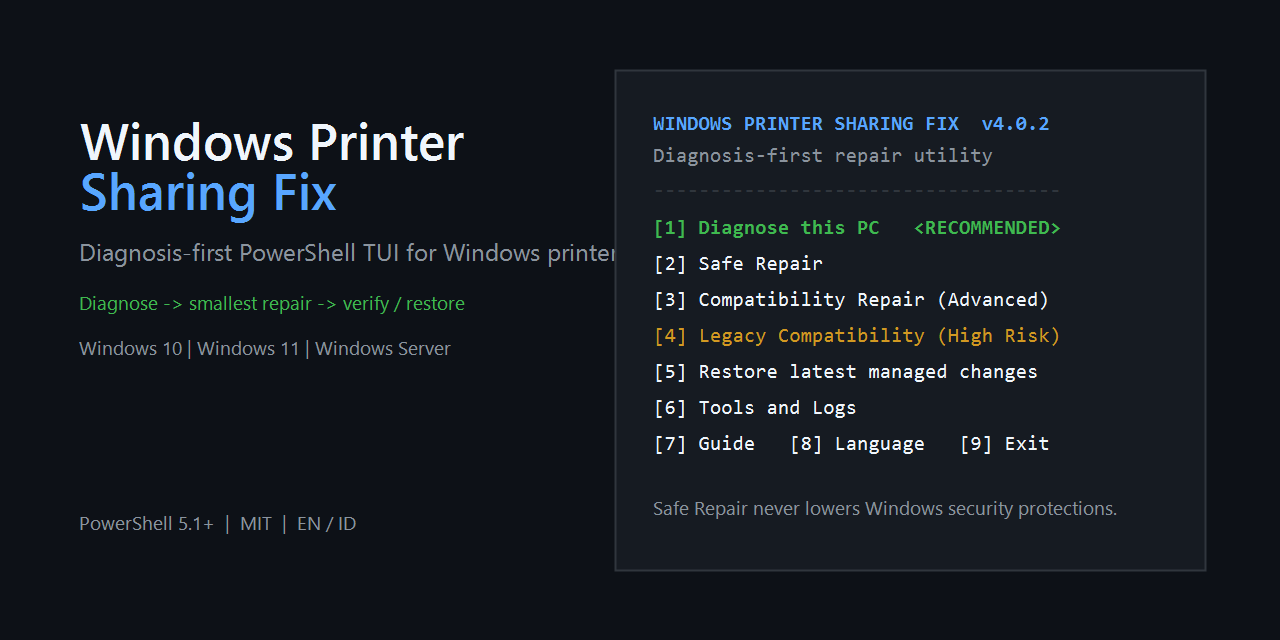
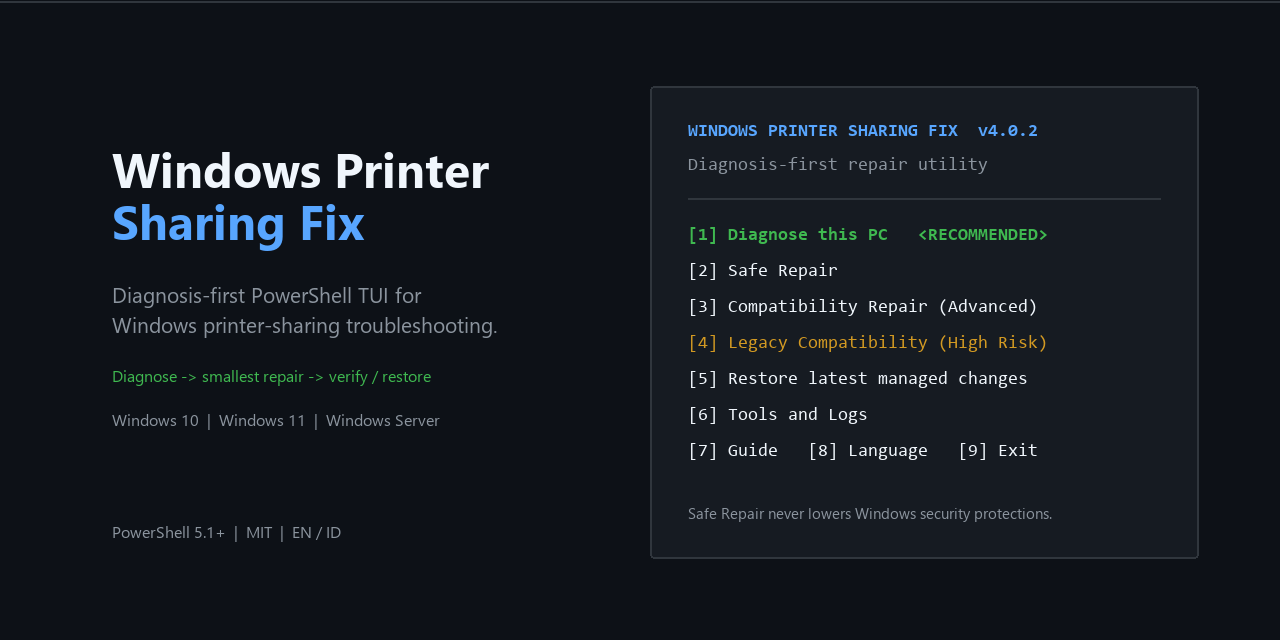
docs: fix repository artwork layout
Fix the overlapping README/social-preview artwork, regenerate both PNG assets, and add a reproducible Pillow-based artwork generator with layout boundary checks.

diff --git a/tools/Generate-RepoArtwork.py b/tools/Generate-RepoArtwork.py
@@ -1,0 +1,114 @@
+from pathlib import Path
+from PIL import Image, ImageDraw, ImageFont
+
+ROOT = Path(__file__).resolve().parents[1]
+OUT = ROOT / "docs" / "assets"
+W, H = 1280, 640
+
+BG = "#0d1117"
+PANEL = "#161b22"
+BORDER = "#30363d"
+TEXT = "#f0f6fc"
+MUTED = "#8b949e"
+BLUE = "#58a6ff"
+GREEN = "#3fb950"
+YELLOW = "#d29922"
+
+SEGOE = Path(r"C:\Windows\Fonts\segoeui.ttf")
+SEGOE_BOLD = Path(r"C:\Windows\Fonts\segoeuib.ttf")
+CONSOLA = Path(r"C:\Windows\Fonts\consola.ttf")
+CONSOLA_BOLD = Path(r"C:\Windows\Fonts\consolab.ttf")
+
+
+def font(path: Path, size: int):
+    if not path.exists():
+        raise FileNotFoundError(f"Required font not found: {path}")
+    return ImageFont.truetype(str(path), size)
+
+
+def text(draw, xy, value, fill, face):
+    draw.text(xy, value, fill=fill, font=face)
+
+
+def assert_fits(draw, value, face, x, max_x, label):
+    box = draw.textbbox((x, 0), value, font=face)
+    if box[2] > max_x:
+        raise RuntimeError(f"{label} exceeds layout boundary: {box[2]} > {max_x}")
+
+
+def build_artwork():
+    image = Image.new("RGB", (W, H), BG)
+    draw = ImageDraw.Draw(image)
+
+    draw.line((0, 1, W, 1), fill=BORDER, width=2)
+
+    left_x = 112
+    left_max_x = 606
+    panel_x, panel_y = 650, 86
+    panel_w, panel_h = 548, 472
+    panel_right = panel_x + panel_w
+
+    title = font(SEGOE_BOLD, 48)
+    subtitle = font(SEGOE, 21)
+    body = font(SEGOE, 18)
+    small = font(SEGOE, 16)
+    mono = font(CONSOLA, 18)
+    mono_bold = font(CONSOLA_BOLD, 18)
+
+    text(draw, (left_x, 136), "Windows Printer", TEXT, title)
+    text(draw, (left_x, 188), "Sharing Fix", BLUE, title)
+
+    sub1 = "Diagnosis-first PowerShell TUI for"
+    sub2 = "Windows printer-sharing troubleshooting."
+    assert_fits(draw, sub1, subtitle, left_x, left_max_x, "subtitle line 1")
+    assert_fits(draw, sub2, subtitle, left_x, left_max_x, "subtitle line 2")
+    text(draw, (left_x, 280), sub1, MUTED, subtitle)
+    text(draw, (left_x, 310), sub2, MUTED, subtitle)
+
+    flow = "Diagnose -> smallest repair -> verify / restore"
+    assert_fits(draw, flow, small, left_x, left_max_x, "workflow line")
+    text(draw, (left_x, 364), flow, GREEN, small)
+    text(draw, (left_x, 408), "Windows 10  |  Windows 11  |  Windows Server", MUTED, small)
+    text(draw, (left_x, 520), "PowerShell 5.1+  |  MIT  |  EN / ID", MUTED, small)
+
+    draw.rounded_rectangle(
+        (panel_x, panel_y, panel_right, panel_y + panel_h),
+        radius=4, fill=PANEL, outline=BORDER, width=2
+    )
+
+    px = panel_x + 38
+    py = panel_y + 36
+    text(draw, (px, py), "WINDOWS PRINTER SHARING FIX  v4.0.2", BLUE, mono_bold)
+    text(draw, (px, py + 34), "Diagnosis-first repair utility", MUTED, mono)
+    draw.line((px, py + 76, panel_right - 38, py + 76), fill=BORDER, width=2)
+
+    menu_y = py + 104
+    menu = [
+        ("[1] Diagnose this PC   <RECOMMENDED>", GREEN, mono_bold),
+        ("[2] Safe Repair", TEXT, mono),
+        ("[3] Compatibility Repair (Advanced)", TEXT, mono),
+        ("[4] Legacy Compatibility (High Risk)", YELLOW, mono),
+        ("[5] Restore latest managed changes", TEXT, mono),
+        ("[6] Tools and Logs", TEXT, mono),
+        ("[7] Guide   [8] Language   [9] Exit", TEXT, mono),
+    ]
+    for i, (line, color, face) in enumerate(menu):
+        assert_fits(draw, line, face, px, panel_right - 34, f"terminal line {i + 1}")
+        text(draw, (px, menu_y + i * 36), line, color, face)
+
+    footer = "Safe Repair never lowers Windows security protections."
+    footer_face = font(SEGOE, 15)
+    assert_fits(draw, footer, footer_face, px, panel_right - 34, "terminal footer")
+    text(draw, (px, panel_y + panel_h - 56), footer, MUTED, footer_face)
+
+    OUT.mkdir(parents=True, exist_ok=True)
+    hero = OUT / "hero.png"
+    preview = OUT / "social-preview.png"
+    image.save(hero, optimize=True)
+    image.save(preview, optimize=True)
+    print(f"Wrote {hero}")
+    print(f"Wrote {preview}")
+
+
+if __name__ == "__main__":
+    build_artwork()
